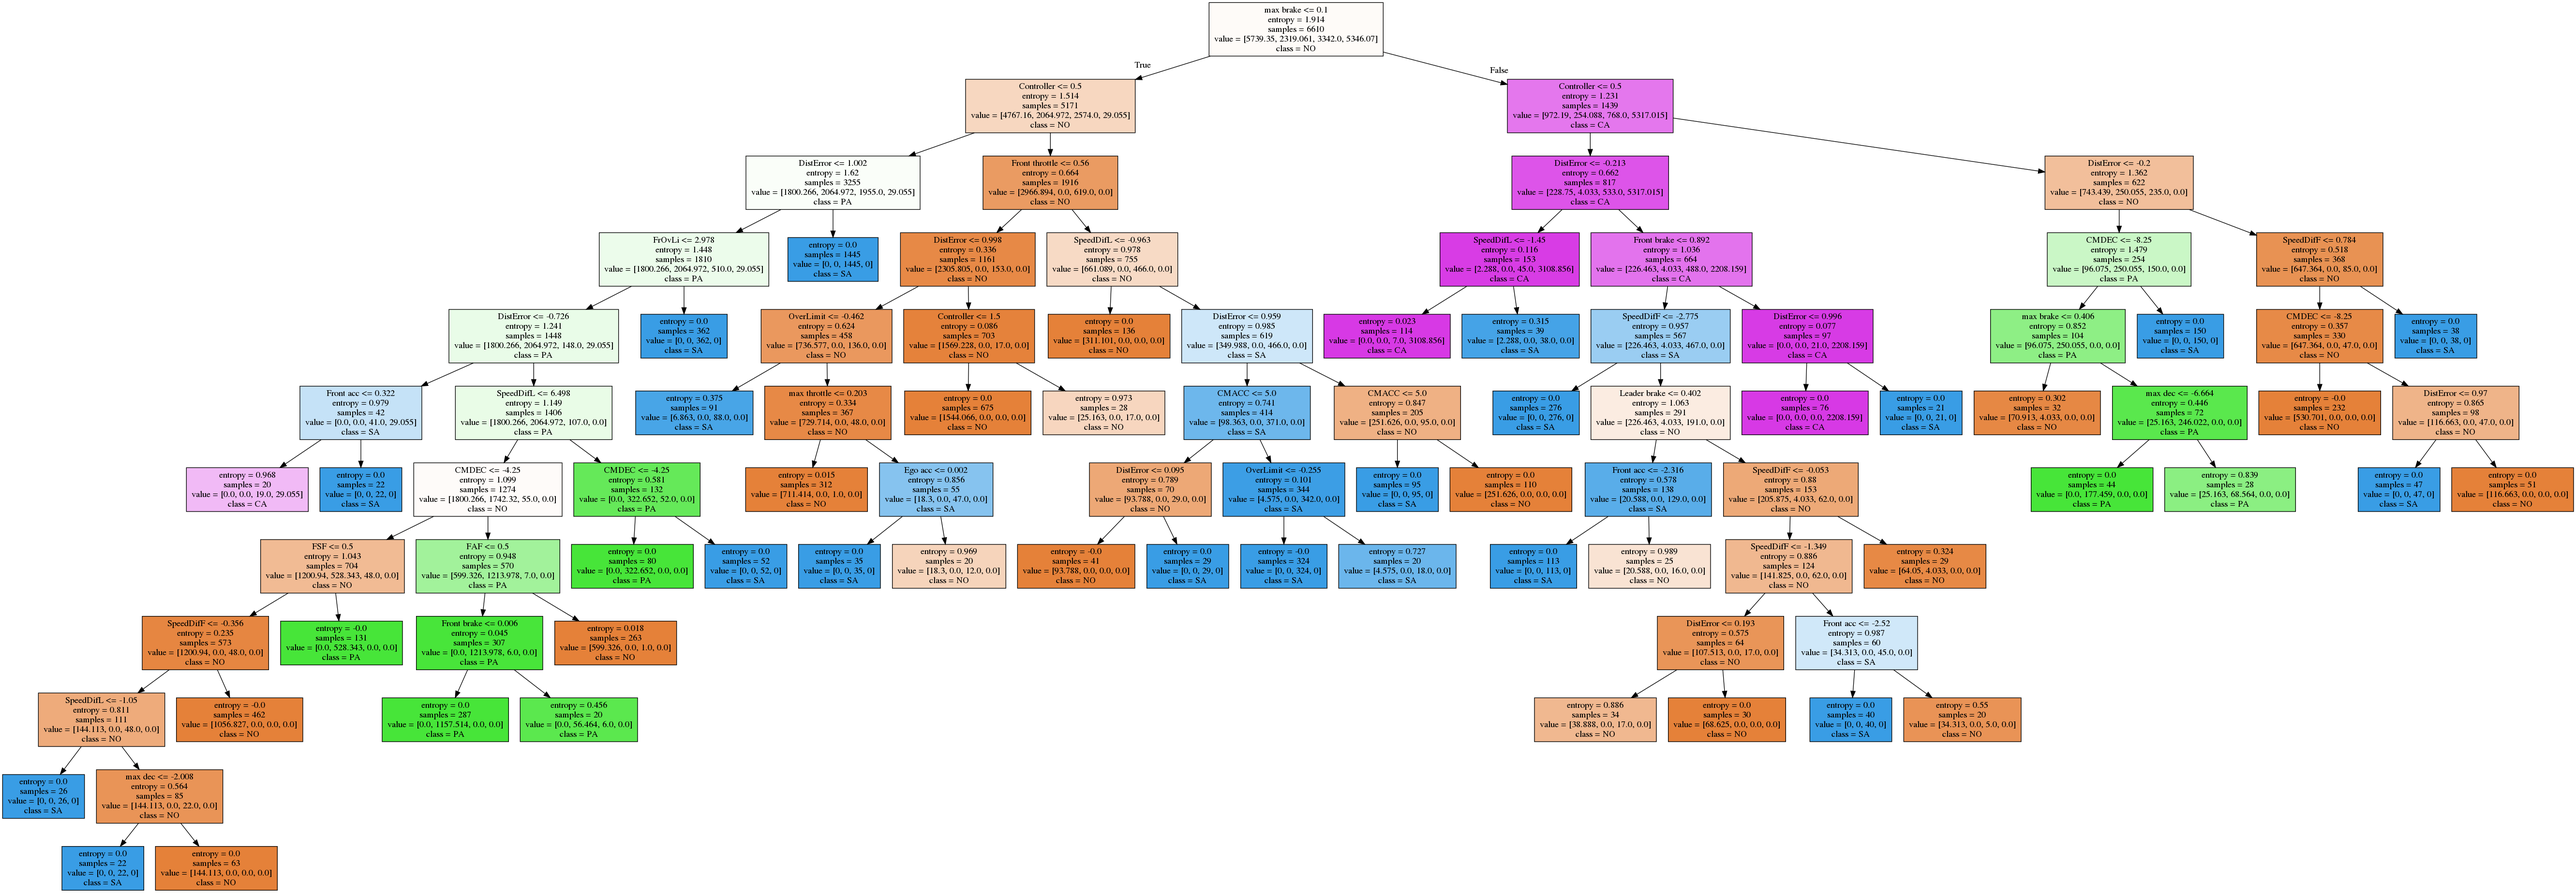
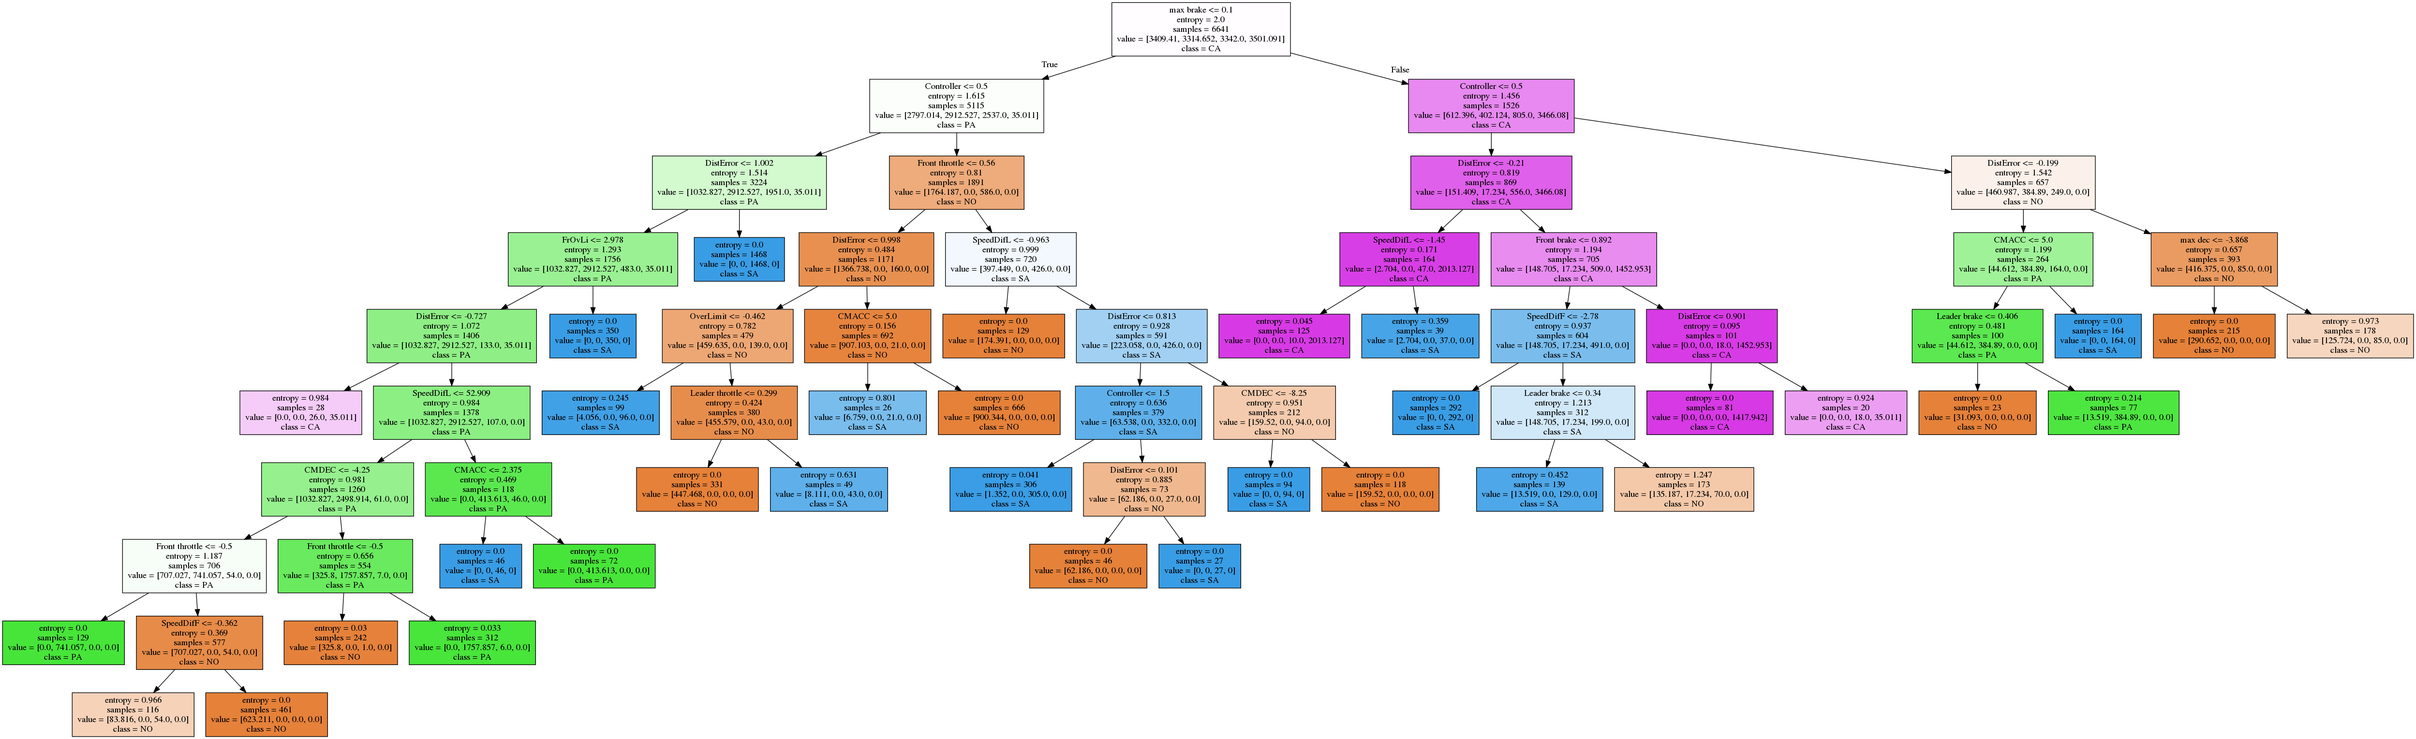
final pruned tree

diff --git a/implementation/DecisionTree/TreeTrainer.py b/implementation/DecisionTree/TreeTrainer.py
@@ -2,13 +2,14 @@ import pandas
 from sklearn import tree, metrics
 import  pydotplus
 from sklearn.tree import DecisionTreeClassifier
-from sklearn.model_selection import train_test_split
+from sklearn.model_selection import train_test_split, cross_val_score
 import matplotlib.pyplot as plt
 import matplotlib.image as pltimg
 import csv
 from joblib import dump, load
 from implementation.data_classes import AdaptationTechnique, FailureType
 from implementation.vehicle.controller import ControllerType
+import numpy as np
 
 class TreeTrainer(object):
 
@@ -24,15 +25,17 @@ class TreeTrainer(object):
 
         file = pandas.read_csv("cleaned_file.csv")
         #self.test_file = pandas.read_csv("Connection_Failure_Data_Set.csv")
-        weights = self.balance_classes()
-        self.decision_tree = DecisionTreeClassifier(min_samples_leaf=20, class_weight=weights, min_samples_split=20, min_weight_fraction_leaf=0.001,
-                                                    min_impurity_decrease=0.001, criterion="entropy")
+        self.weights = self.balance_classes()
+        self.decision_tree = DecisionTreeClassifier(min_samples_leaf=20, class_weight=self.weights, min_samples_split=20,
+                                                    min_weight_fraction_leaf=0.001, min_impurity_decrease=0.005,
+                                                   criterion="entropy", max_depth=9)
         #self.decision_tree = DecisionTreeClassifier()
         file = self.map_data(file)
         #self.test_file = self.map_data(self.test_file)
         self.features = None
         x, y = self.prepare_data(file)
         x_train, x_test, y_train, y_test = train_test_split(x, y, test_size=0.3)
+
 
         self.train_tree(x_train, y_train)
 
@@ -41,6 +44,8 @@ class TreeTrainer(object):
         #x_test_2, y_test_2 = self.prepare_data(self.test_file)
         # y_pred_2 = self.decision_tree.predict(x_test_2)
         print("Accuracy:", metrics.accuracy_score(y_test, y_pred))
+        print("Precision: ", metrics.precision_score(y_test, y_pred, average="micro"))
+        print("Recall: ", metrics.recall_score(y_test, y_pred, average="micro"))
         #print("Accuracy:", metrics.accuracy_score(y_test_2, y_pred_2))
         data = tree.export_graphviz(self.decision_tree, filled=True, out_file=None, feature_names=self.features, class_names=["NO", "PA", "SA", "CA"])
         graph = pydotplus.graph_from_dot_data(data)
@@ -48,6 +53,50 @@ class TreeTrainer(object):
 
         img = pltimg.imread("Connection_Failure_Tree.png")
         imgplot = plt.imshow(img)
+        plt.show()
+
+
+        sm_tree_depths = range(1, 25)
+        sm_cv_scores_mean, sm_cv_scores_std, sm_accuracy_scores = self.run_cross_validation_on_trees(x_train, y_train,
+                                                                                                sm_tree_depths)
+
+        #plotting accuracy
+        self.plot_cross_validation_on_trees(sm_tree_depths, sm_cv_scores_mean, sm_cv_scores_std, sm_accuracy_scores,
+                                       'Accuracy per decision tree depth on training data')
+
+    def run_cross_validation_on_trees(self, X, y, tree_depths, cv=5, scoring='accuracy'):
+        cv_scores_list = []
+        cv_scores_std = []
+        cv_scores_mean = []
+        accuracy_scores = []
+        for depth in tree_depths:
+            tree_model = DecisionTreeClassifier(max_depth=depth, min_samples_leaf=20, class_weight=self.weights, min_samples_split=20, min_weight_fraction_leaf=0.001,
+                                                    min_impurity_decrease=0.001, criterion="entropy")
+            cv_scores = cross_val_score(tree_model, X, y, cv=cv, scoring=scoring)
+            cv_scores_list.append(cv_scores)
+            cv_scores_mean.append(cv_scores.mean())
+            cv_scores_std.append(cv_scores.std())
+            accuracy_scores.append(tree_model.fit(X, y).score(X, y))
+        cv_scores_mean = np.array(cv_scores_mean)
+        cv_scores_std = np.array(cv_scores_std)
+        accuracy_scores = np.array(accuracy_scores)
+        return cv_scores_mean, cv_scores_std, accuracy_scores
+
+
+    # function for plotting cross-validation results
+    def plot_cross_validation_on_trees(self, depths, cv_scores_mean, cv_scores_std, accuracy_scores, title):
+        fig, ax = plt.subplots(1, 1, figsize=(15, 5))
+        ax.plot(depths, cv_scores_mean, '-o', label='mean cross-validation accuracy', alpha=0.9)
+        ax.fill_between(depths, cv_scores_mean - 2 * cv_scores_std, cv_scores_mean + 2 * cv_scores_std, alpha=0.2)
+        ylim = plt.ylim()
+        ax.plot(depths, accuracy_scores, '-*', label='train accuracy', alpha=0.9)
+        ax.set_title(title, fontsize=16)
+        ax.set_xlabel('Tree depth', fontsize=14)
+        ax.set_ylabel('Accuracy', fontsize=14)
+        ax.set_ylim(ylim)
+        ax.set_xticks(depths)
+        ax.legend()
+
         plt.show()
 
     def train_tree(self, x, y):
@@ -141,15 +190,6 @@ class TreeTrainer(object):
                     front_throttle = float(row[12])
                     front_brake = float(row[13])
                     old_technique = self.__create_adaptation_technique(row[24])
-
-                    if old_technique == AdaptationTechnique.NO_ADAPTATION:
-                        self.no += 1
-                    elif old_technique == AdaptationTechnique.PARAMETER:
-                        self.pa += 1
-                    elif old_technique == AdaptationTechnique.STRUCTURAL:
-                        self.sa += 1
-                    elif old_technique == AdaptationTechnique.CONTEXT:
-                        self.ca += 1
 
                     acc_front = float(row[10])
                     front_over_limit = float(row[14])
@@ -282,6 +322,15 @@ class TreeTrainer(object):
 
                     if technique != old_technique:
                         counter += 1
+
+                    if technique == AdaptationTechnique.NO_ADAPTATION:
+                        self.no += 1
+                    elif technique == AdaptationTechnique.PARAMETER:
+                        self.pa += 1
+                    elif technique == AdaptationTechnique.STRUCTURAL:
+                        self.sa += 1
+                    elif technique == AdaptationTechnique.CONTEXT:
+                        self.ca += 1
 
                     current_controller: str = self.__convert_controller_to_string(current_controller)
                     technique: str = self.__convert_technique_to_string(technique)

diff --git a/implementation/DecisionTree/TreeValidation.py b/implementation/DecisionTree/TreeValidation.py
@@ -1,0 +1,56 @@
+from sklearn.tree import DecisionTreeClassifier
+from sklearn.model_selection import cross_val_score
+import numpy as np
+import matplotlib.pyplot as plt
+
+from joblib import load
+import pandas
+
+class Validator(object):
+
+    def __init__(self):
+        self.decision_tree: DecisionTreeClassifier = load("../platoon_controller/analyzer/Tree_Thesis.joblib")
+        self.file = pandas.read_csv("cleaned_file.csv")
+    # function for fitting trees of various depths on the training data using cross-validation
+
+    def run_cross_validation_on_trees(X, y, tree_depths, cv=5, scoring='accuracy'):
+        cv_scores_list = []
+        cv_scores_std = []
+        cv_scores_mean = []
+        accuracy_scores = []
+        for depth in tree_depths:
+            tree_model = DecisionTreeClassifier(max_depth=depth)
+            cv_scores = cross_val_score(tree_model, X, y, cv=cv, scoring=scoring)
+            cv_scores_list.append(cv_scores)
+            cv_scores_mean.append(cv_scores.mean())
+            cv_scores_std.append(cv_scores.std())
+            accuracy_scores.append(tree_model.fit(X, y).score(X, y))
+        cv_scores_mean = np.array(cv_scores_mean)
+        cv_scores_std = np.array(cv_scores_std)
+        accuracy_scores = np.array(accuracy_scores)
+        return cv_scores_mean, cv_scores_std, accuracy_scores
+
+
+    # function for plotting cross-validation results
+    def plot_cross_validation_on_trees(depths, cv_scores_mean, cv_scores_std, accuracy_scores, title):
+        fig, ax = plt.subplots(1, 1, figsize=(15, 5))
+        ax.plot(depths, cv_scores_mean, '-o', label='mean cross-validation accuracy', alpha=0.9)
+        ax.fill_between(depths, cv_scores_mean - 2 * cv_scores_std, cv_scores_mean + 2 * cv_scores_std, alpha=0.2)
+        ylim = plt.ylim()
+        ax.plot(depths, accuracy_scores, '-*', label='train accuracy', alpha=0.9)
+        ax.set_title(title, fontsize=16)
+        ax.set_xlabel('Tree depth', fontsize=14)
+        ax.set_ylabel('Accuracy', fontsize=14)
+        ax.set_ylim(ylim)
+        ax.set_xticks(depths)
+        ax.legend()
+
+
+    # fitting trees of depth 1 to 24
+    sm_tree_depths = range(1, 25)
+    sm_cv_scores_mean, sm_cv_scores_std, sm_accuracy_scores = run_cross_validation_on_trees(X_train, y_train,
+                                                                                            sm_tree_depths)
+
+    # plotting accuracy
+    plot_cross_validation_on_trees(sm_tree_depths, sm_cv_scores_mean, sm_cv_scores_std, sm_accuracy_scores,
+                                   'Accuracy per decision tree depth on training data')
